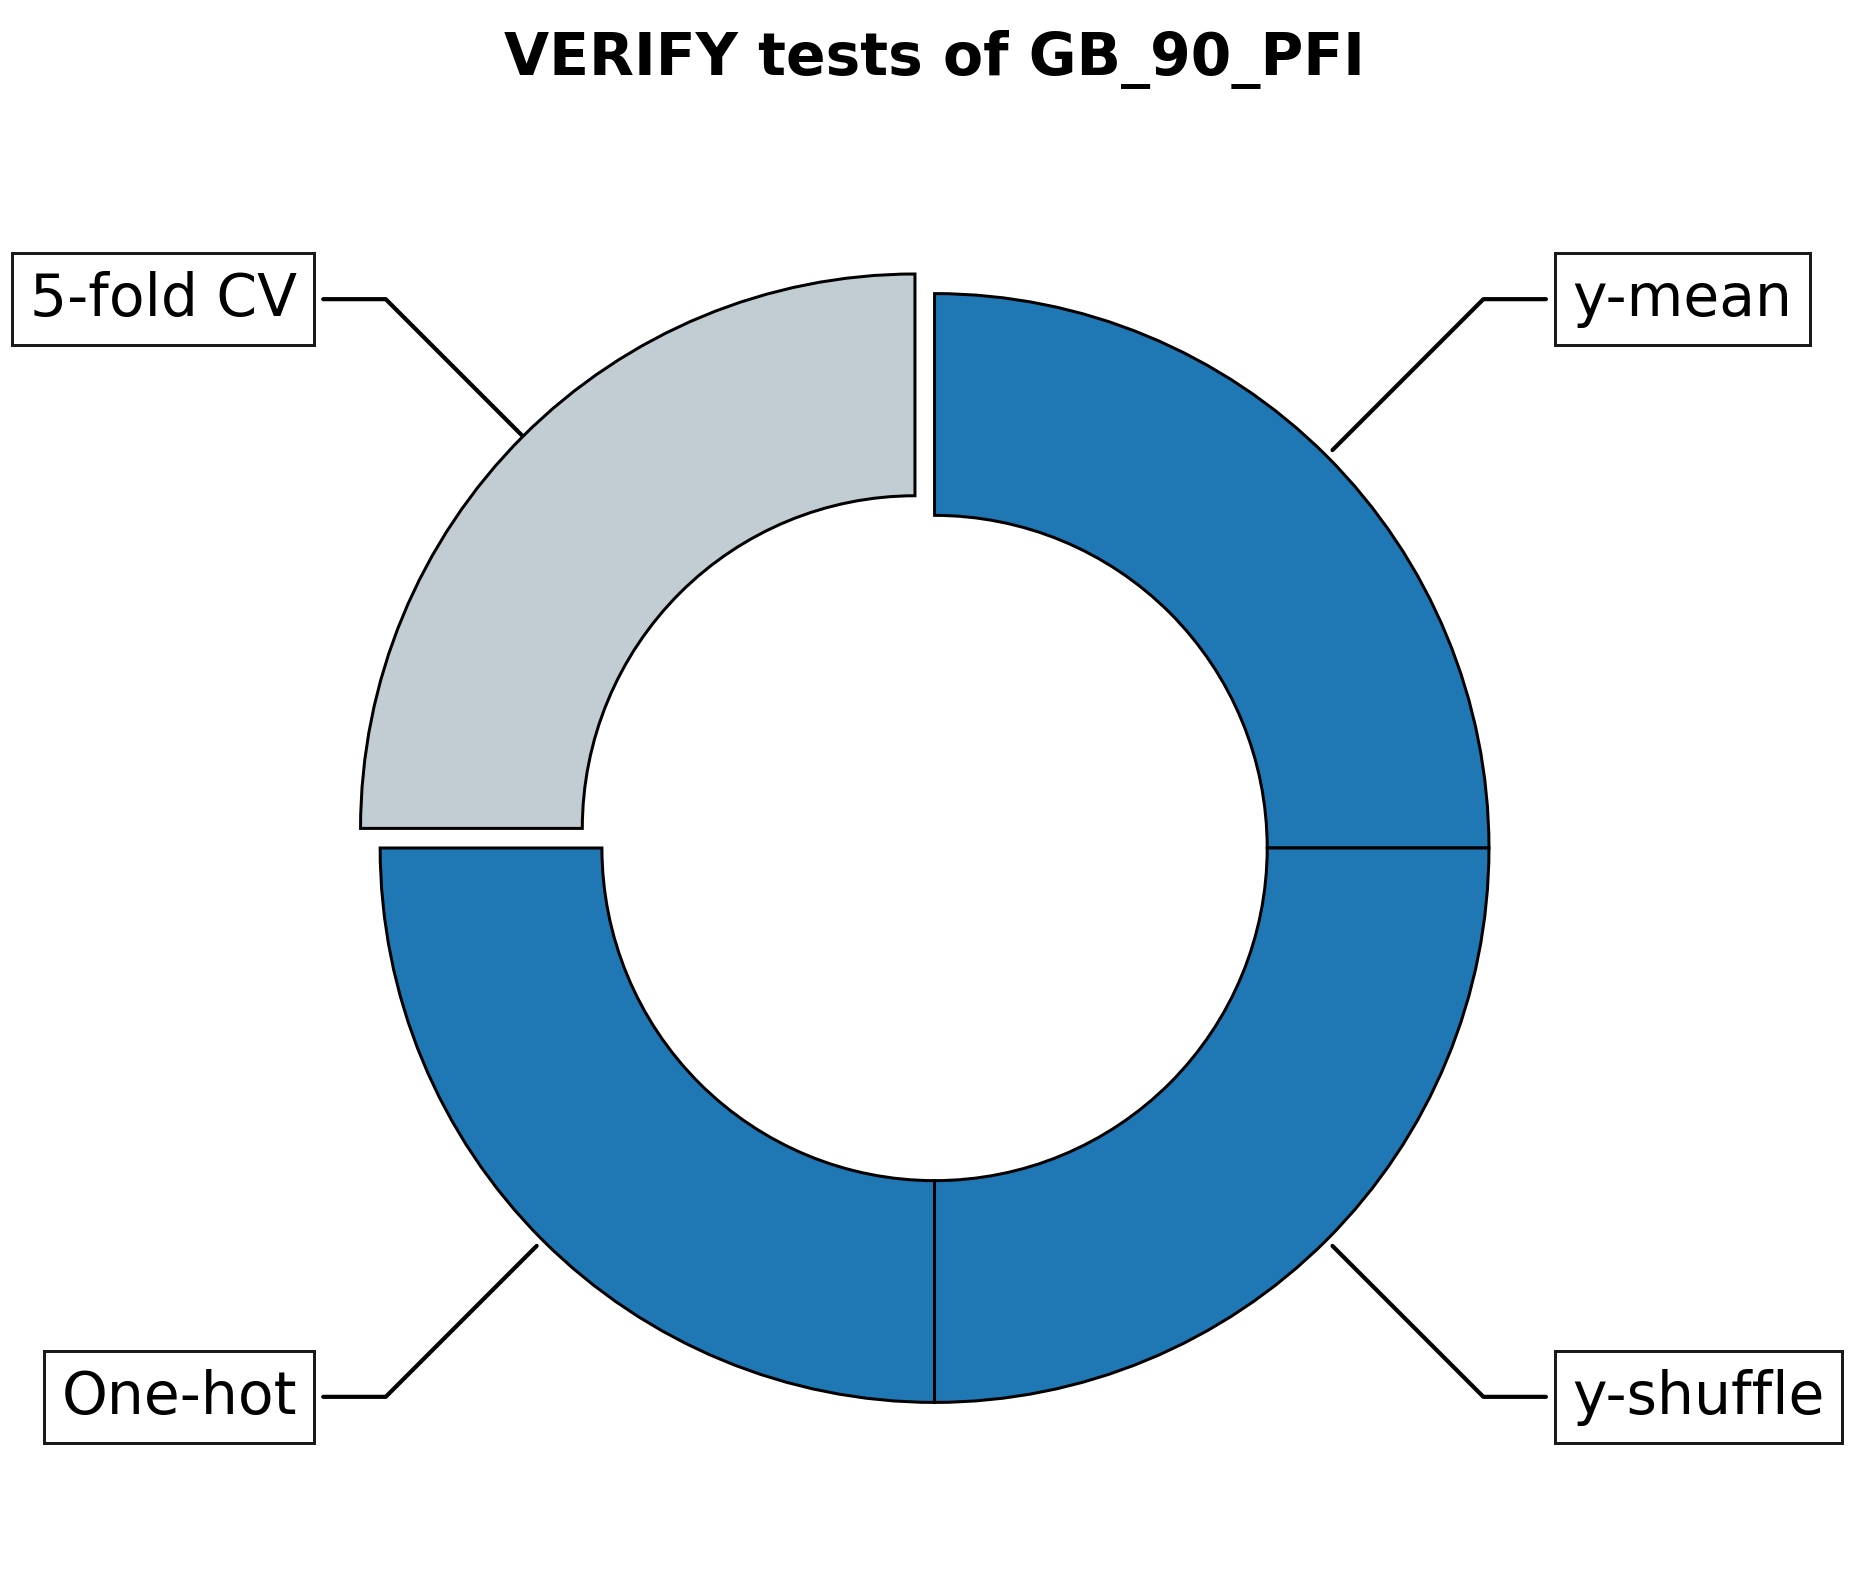
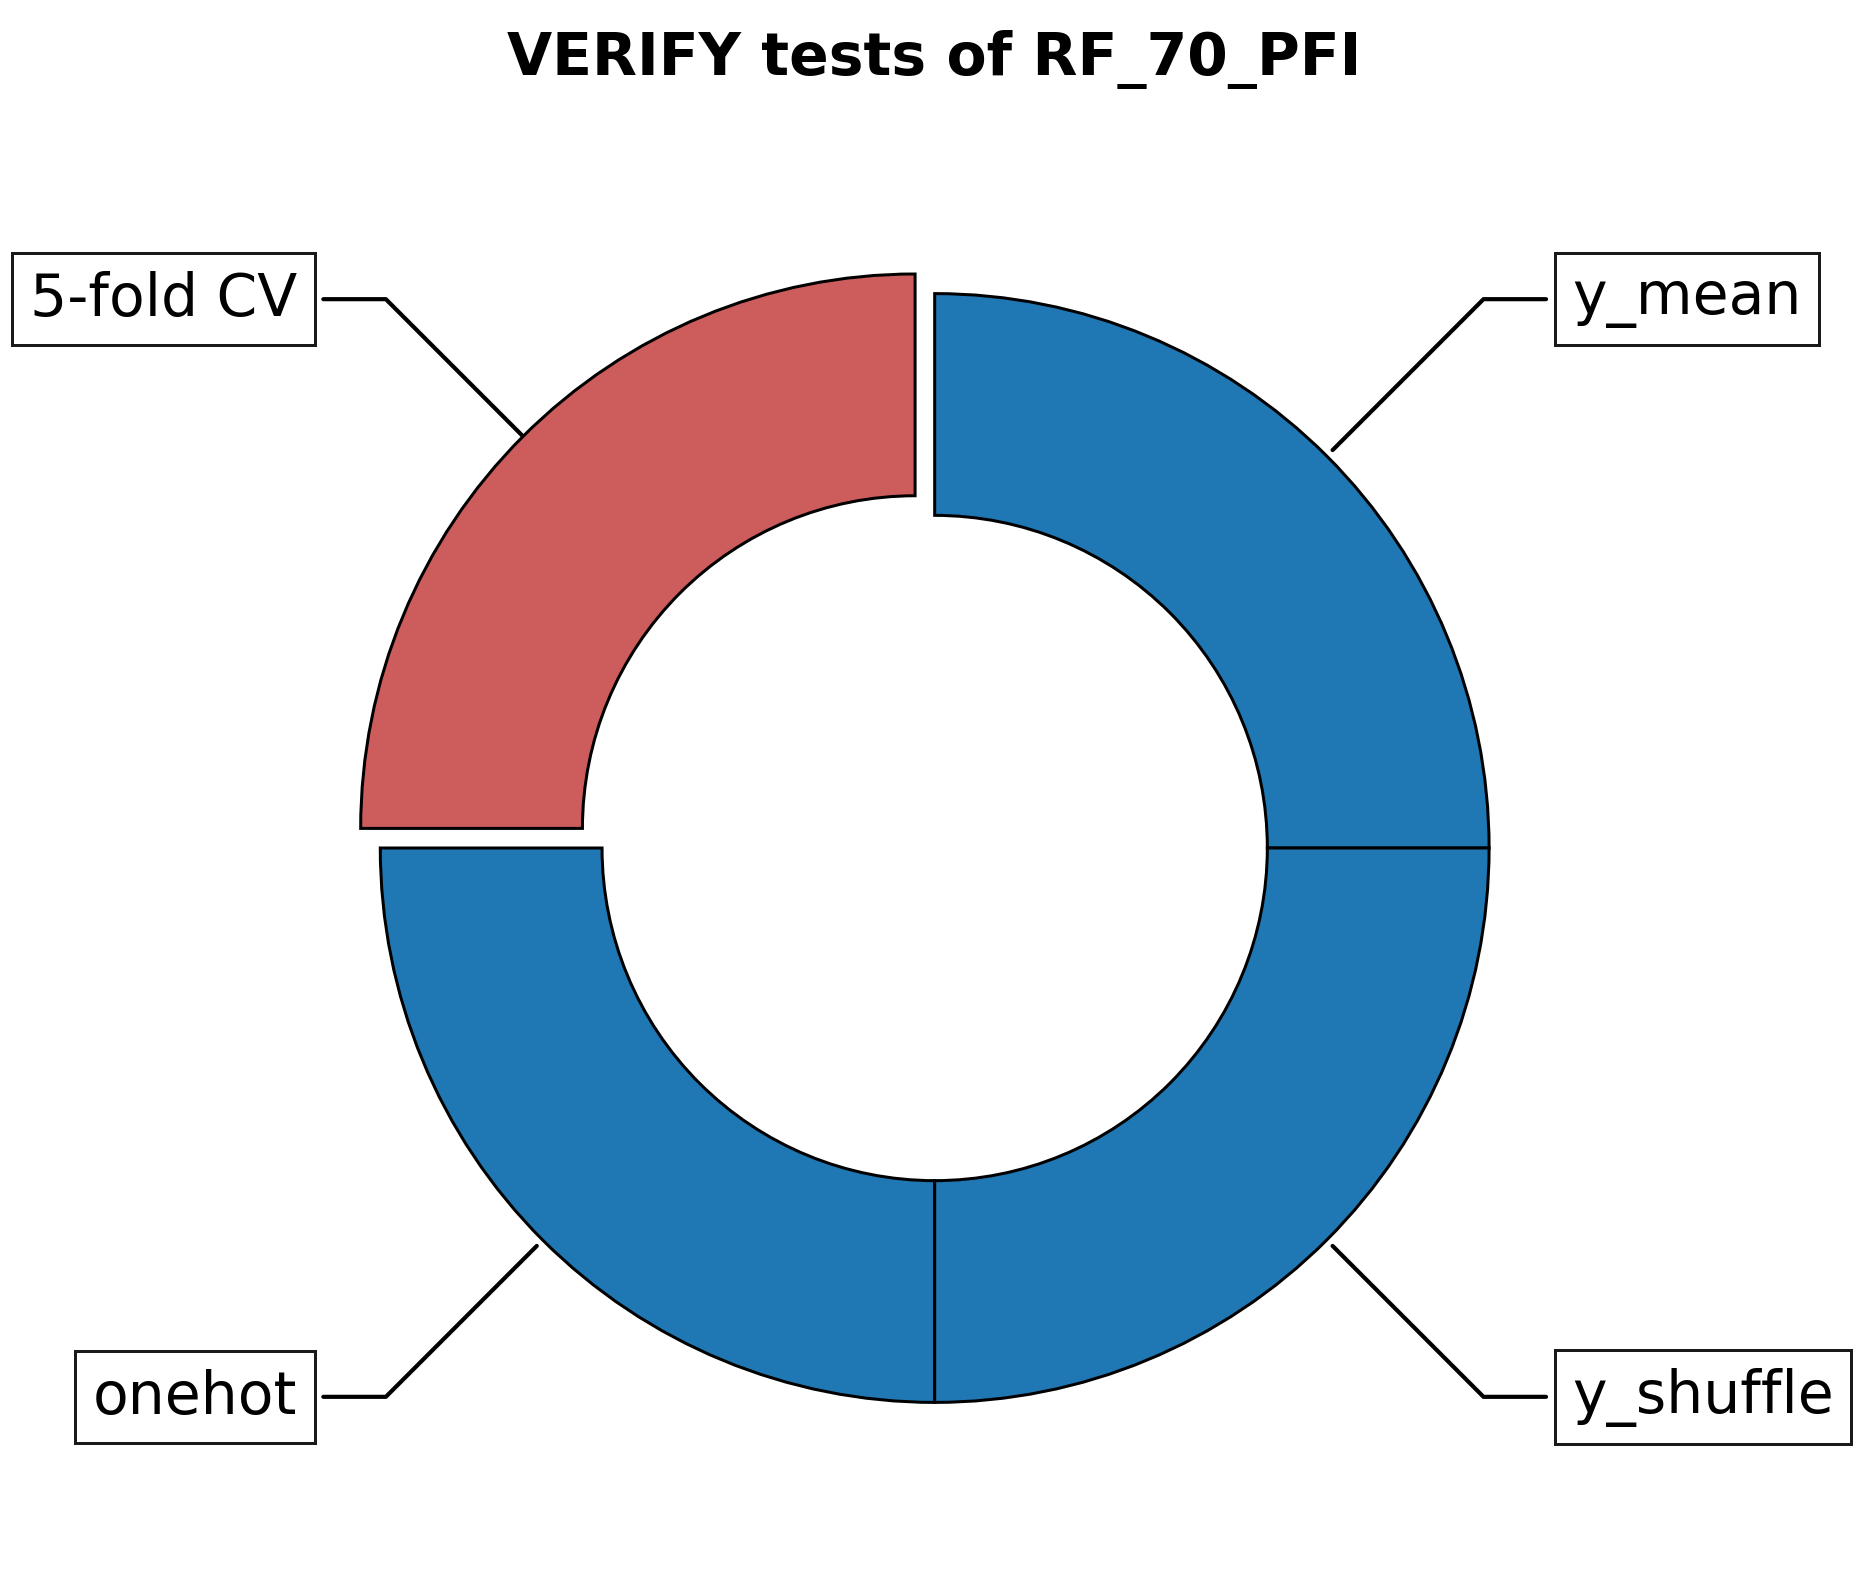
1. updating smiles workflow in docs

diff --git a/docs/Examples/full_workflow/smiles_workflow.rst b/docs/Examples/full_workflow/smiles_workflow.rst
@@ -21,6 +21,7 @@ Required inputs
 .. csv-table:: 
    :file: CSV/solubility_short.csv
    :header-rows: 1
+   :widths: 25, 25, 25
 
 Required packages
 +++++++++++++++++
@@ -67,9 +68,9 @@ Executing the job
 
 By default, the workflow sets:
 
-  - :code:`--ignore "[code_name,smiles]"` (variables ignored in the model)
+* :code:`--ignore "[code_name,smiles]"` (variables ignored in the model)
 
-  - :code:`--names code_name` (name of the column containing the names of the datapoints)  
+* :code:`--names code_name` (name of the column containing the names of the datapoints)  
 
 Execution time
 ++++++++++++++
@@ -89,7 +90,7 @@ Results
 
 * The workflow starts with a CSEARCH-RDKit conformer sampling (using RDKit by default, although CREST is also available if :code:`--csearch_keywords "--program crest"` is added).
 
-* Then, QDESCP is used to generate more than 200 RDKit and xTB Boltzmann-averaged molecular descriptors (using xTB geometry optimizations and different single-point calculations):
+* Then, QDESCP is used to generate more than 200 RDKit and xTB Boltzmann-averaged molecular descriptors (using xTB geometry optimizations and different single-point calculations).
 
 A CSV file called **AQME-ROBERT_solubility_short.csv** should be created in the folder where ROBERT was executed. The CSV 
 file can be downloaded here: |csv_report_smi|
@@ -106,23 +107,14 @@ file can be visualized here: |pdf_report_smiles|
 .. warning::
 
    In some HPCs, the Helvetica/Arial font used to create the report might not be installed. If the report PDF 
-   looks messy, install the fonts with :code:`conda install -c conda-forge mscorefonts`)
+   looks messy, install the fonts with :code:`conda install -c conda-forge mscorefonts`.
 
-The PDF report contains all the results of the workflow. In this case, Gradient Boosting (GB) models with 80% and 90% training sizes were the optimal models found from: 
+The PDF report contains all the results of the workflow. In this case, a Neural Network (NN) model with 60% training size and a Random Forest (RF) model with 70% training size were the optimal models found from: 
 
   * Four different models (Gradient Boosting GB, MultiVariate Linear MVL, Neural Network NN, Random Forest RF) 
-  * Four different partition sizes (60%, 70%, 80%, 90%) 
+  * Two different partition sizes (60%, 70%) 
 
 All the results are summarized below:
-
-.. |AQME_data| image:: ../images/FW_smiles/AQME_data.jpg
-   :width: 600
-
-.. |CURATE_data| image:: ../images/FW_smiles/CURATE_data.jpg
-   :width: 600
-
-.. |GENERATE_data| image:: ../images/FW_smiles/GENERATE_data.jpg
-   :width: 600
 
 .. |heatmap_no_pfi| image:: ../images/FW_smiles/heatmap_no_pfi.png
    :width: 400
@@ -130,16 +122,10 @@ All the results are summarized below:
 .. |heatmap_pfi| image:: ../images/FW_smiles/heatmap_pfi.png
    :width: 400
 
-.. |VERIFY_dat_no_pfi| image:: ../images/FW_smiles/VERIFY_dat_no_pfi.jpg
-   :width: 600
-
 .. |VERIFY_no_pfi| image:: ../images/FW_smiles/VERIFY_no_pfi.png
    :width: 600
 
 .. |VERIFY_pfi| image:: ../images/FW_smiles/VERIFY_pfi.png
-   :width: 600
-
-.. |PREDICT_res_no_pfi| image:: ../images/FW_smiles/PREDICT_res_no_pfi.jpg
    :width: 600
 
 .. |PREDICT_graph_no_pfi| image:: ../images/FW_smiles/PREDICT_graph_no_pfi.png
@@ -163,68 +149,60 @@ All the results are summarized below:
 .. |header| image:: ../images/FW_smiles/header_smiles.jpg
    :width: 600
 
+.. |score| image:: ../images/FW_smiles/score_smiles.jpg
+   :width: 600
+
+.. |summary| image:: ../images/FW_smiles/summary_smiles.jpg
+   :width: 600
+
 +---------------------------------------------------------------------------------------------------+
 |                         .. centered:: **RESULTS**                                                 |
 +---------------------------------------------------------------------------------------------------+
 |  |                                                                                                |
-|  .. centered:: Header of the PDF report                                                           |
+|  .. centered:: Header and ROBERT score from the PDF report                                        |
 +-------------------------------------------------------------+-------------------------------------+
 |  .. centered:: Header                                       |    |header|                         |
 +-------------------------------------------------------------+-------------------------------------+
-|  |                                                                                                |
-|  .. centered:: /AQME folder                                                                       |
+|  .. centered:: ROBERT score                                 |    |score|                          |
 +-------------------------------------------------------------+-------------------------------------+
-|  .. centered:: AQME_data.dat                                |    |AQME_data|                      |
-+-------------------------------------------------------------+-------------------------------------+
-|  |                                                                                                |
-|  .. centered:: /CURATE folder                                                                     |
-+-------------------------------------------------------------+-------------------------------------+
-|  .. centered:: CURATE_data.dat                              |    |CURATE_data|                    |
+|  .. centered:: Prediction summary                           |    |summary|                        |
 +-------------------------------------------------------------+-------------------------------------+
 |  |                                                                                                |
 |  .. centered:: /GENERATE folder                                                                   |
 +-------------------------------------------------------------+-------------------------------------+
-|  .. centered:: GENERATE_data.dat                            |    |GENERATE_data|                  |
+|  .. centered:: Heatmap_ML_models_no                         |    |heatmap_no_pfi|                 |
+|  .. centered:: _PFI_filter.png                              |                                     |
 +-------------------------------------------------------------+-------------------------------------+
-|  .. centered:: Heatmap ML models no                         |    |heatmap_no_pfi|                 |
-|  .. centered:: PFI filter.png                               |                                     |
-+-------------------------------------------------------------+-------------------------------------+
-|  .. centered:: Heatmap ML models with                       |    |heatmap_pfi|                    |
-|  .. centered:: PFI filter.png                               |                                     |
+|  .. centered:: Heatmap_ML_models_with                       |    |heatmap_pfi|                    |
+|  .. centered:: _PFI_filter.png                              |                                     |
 +-------------------------------------------------------------+-------------------------------------+
 |  |                                                                                                |
 |  .. centered:: /VERIFY folder                                                                     |
 +-------------------------------------------------------------+-------------------------------------+
-|  .. centered:: VERIFY_tests_NN_80_No_PFI.dat                |    |VERIFY_dat_no_pfi|              |
-|  .. centered:: *(using 131 descriptors)*                    |                                     |
+|  .. centered:: VERIFY_tests_NN_60_No_PFI.png                |    |VERIFY_no_pfi|                  |
+|  .. centered:: *(using 91 descriptors)*                     |                                     |
 +-------------------------------------------------------------+-------------------------------------+
-|  .. centered:: VERIFY_tests_NN_80_No_PFI.png                |    |VERIFY_no_pfi|                  |
-|  .. centered:: *(using 131 descriptors)*                    |                                     |
-+-------------------------------------------------------------+-------------------------------------+
-|  .. centered:: VERIFY_tests_NN_80_PFI.png                   |    |VERIFY_pfi|                     |
-|  .. centered:: *(PFI filter applied, using 3 descriptors)*  |                                     |
+|  .. centered:: VERIFY_tests_RF_70_PFI.png                   |    |VERIFY_pfi|                     |
+|  .. centered:: *(PFI filter applied, using 4 descriptors)*  |                                     |
 +-------------------------------------------------------------+-------------------------------------+
 |  |                                                                                                |
 |  .. centered:: /PREDICT folder                                                                    |
 +-------------------------------------------------------------+-------------------------------------+
-|  .. centered:: Results_NN_80_No_PFI.dat                     |    |PREDICT_res_no_pfi|             |
-|  .. centered:: *(using 131 descriptors)*                    |                                     |
+|  .. centered:: Results_NN_60_No_PFI.png                     |    |PREDICT_graph_no_pfi|           |
+|  .. centered:: *(using 91 descriptors)*                     |                                     |
 +-------------------------------------------------------------+-------------------------------------+
-|  .. centered:: Results_NN_80_No_PFI.png                     |    |PREDICT_graph_no_pfi|           |
-|  .. centered:: *(using 131 descriptors)*                    |                                     |
+|  .. centered:: SHAP_NN_60_No_PFI.png                        |    |PREDICT_shap_no_pfi|            |
+|  .. centered:: *(using 91 descriptors)*                     |                                     |
 +-------------------------------------------------------------+-------------------------------------+
-|  .. centered:: SHAP_NN_80_No_PFI.png                        |    |PREDICT_shap_no_pfi|            |
-|  .. centered:: *(using 131 descriptors)*                    |                                     |
+|  .. centered:: Outliers_NN_60_No_PFI.png                    |    |PREDICT_out_no_pfi|             |
+|  .. centered:: *(using 91 descriptors)*                     |                                     |
 +-------------------------------------------------------------+-------------------------------------+
-|  .. centered:: Outliers_NN_80_No_PFI.png                    |    |PREDICT_out_no_pfi|             |
-|  .. centered:: *(using 131 descriptors)*                    |                                     |
+|  .. centered:: Results_RF_70_PFI.png                        |    |PREDICT_graph_pfi|              |
+|  .. centered:: *(PFI filter applied, using 4 descriptors)*  |                                     |
 +-------------------------------------------------------------+-------------------------------------+
-|  .. centered:: Results_NN_80_PFI.png                        |    |PREDICT_graph_pfi|              |
-|  .. centered:: *(PFI filter applied, using 3 descriptors)*  |                                     |
+|  .. centered:: SHAP_RF_70_PFI.png                           |    |PREDICT_shap_pfi|               |
+|  .. centered:: *(PFI filter applied, using 4 descriptors)*  |                                     |
 +-------------------------------------------------------------+-------------------------------------+
-|  .. centered:: SHAP_NN_80_PFI.png                           |    |PREDICT_shap_pfi|               |
-|  .. centered:: *(PFI filter applied, using 3 descriptors)*  |                                     |
-+-------------------------------------------------------------+-------------------------------------+
-|  .. centered:: Outliers_NN_80_PFI.png                       |    |PREDICT_out_pfi|                |
-|  .. centered:: *(PFI filter applied, using 3 descriptors)*  |                                     |
+|  .. centered:: Outliers_RF_70_PFI.png                       |    |PREDICT_out_pfi|                |
+|  .. centered:: *(PFI filter applied, using 4 descriptors)*  |                                     |
 +-------------------------------------------------------------+-------------------------------------+

diff --git a/docs/Examples/full_workflow/full_workflow.rst b/docs/Examples/full_workflow/full_workflow.rst
@@ -67,7 +67,7 @@ A PDF file called **ROBERT_report.pdf** should be created in the folder where RO
 .. warning::
 
    In some HPCs, the Helvetica/Arial font used to create the report might not be installed. If the report PDF 
-   looks messy, install the fonts with :code:`conda install -c conda-forge mscorefonts`)
+   looks messy, install the fonts with :code:`conda install -c conda-forge mscorefonts`.
 
 The PDF report contains all the results of the workflow. In this case, a Neural Network (NN) model with 80% training size was the optimal model found from: 
 
@@ -141,11 +141,11 @@ All the results are summarized below:
 |  |                                                                                                |
 |  .. centered:: /GENERATE folder                                                                   |
 +-------------------------------------------------------------+-------------------------------------+
-|  .. centered:: Heatmap ML models no                         |    |heatmap_no_pfi|                 |
-|  .. centered:: PFI filter.png                               |                                     |
+|  .. centered:: Heatmap_ML_models_no                         |    |heatmap_no_pfi|                 |
+|  .. centered:: _PFI_filter.png                              |                                     |
 +-------------------------------------------------------------+-------------------------------------+
-|  .. centered:: Heatmap ML models with                       |    |heatmap_pfi|                    |
-|  .. centered:: PFI filter.png                               |                                     |
+|  .. centered:: Heatmap_ML_models_with                       |    |heatmap_pfi|                    |
+|  .. centered:: _PFI_filter.png                              |                                     |
 +-------------------------------------------------------------+-------------------------------------+
 |  |                                                                                                |
 |  .. centered:: /VERIFY folder                                                                     |

diff --git a/docs/Examples/full_workflow/full_workflow_test.rst b/docs/Examples/full_workflow/full_workflow_test.rst
@@ -31,6 +31,13 @@ Executing the job
 
     python -m robert --predict --names Name --csv_test Robert_example_test.csv
 
+.. note:: 
+
+   The --csv_test option can be used as part of end-to-end workflows. For example, this option can be added
+   to the "Full workflow from CSV" example:
+   
+   :code:`python -m robert --ignore "[Name]" --names Name --y Target_values --csv_name Robert_example.csv --csv_test Robert_example_test.csv`
+
 **Options used:**
 
 * :code:`--predict`: only runs the PREDICT module.  

diff --git a/docs/README.rst b/docs/README.rst
@@ -125,7 +125,7 @@ it also works for other Python versions (i.e., 3.7, 3.9 and 3.11):
 .. warning::
 
    In some HPCs, the Helvetica/Arial font used to create the report might not be installed. If the report PDF 
-   looks messy, install the fonts with :code:`conda install -c conda-forge mscorefonts`)
+   looks messy, install the fonts with :code:`conda install -c conda-forge mscorefonts`.
 
 .. installation-end 
 
